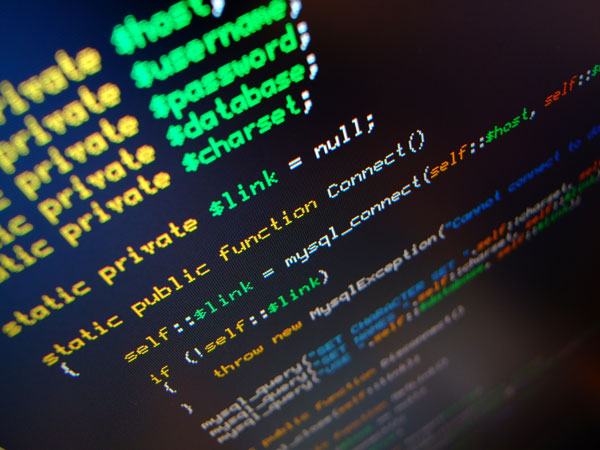
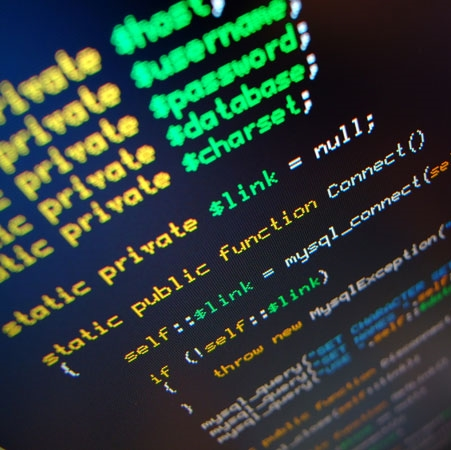
Make pictures square, fix minor HTML issues

diff --git a/opptak/index.html b/opptak/index.html
@@ -1,13 +1,12 @@
 <!DOCTYPE html>
-<!-- saved from url=(0031)http://hackerspace.idi.ntnu.no/ -->
 <html lang="nb"><head><meta http-equiv="Content-Type" content="text/html; charset=UTF-8">
 <title>Hackerspace NTNU</title>
 <meta charset="UTF-8">
 <meta http-equiv="X-UA-Compatible" content="IE=edge">
 <meta name="viewport" content="width=device-width, initial-scale=1">
 <link rel="stylesheet" href="http://maxcdn.bootstrapcdn.com/bootswatch/3.3.2/yeti/bootstrap.min.css">
-<link rel="stylesheet" href="http://hackerspace.idi.ntnu.no/dist/css/carousel.css">
-<link rel="stylesheet" href="http://hackerspace.idi.ntnu.no/dist/css/custom.css">
+<link rel="stylesheet" href="/dist/css/carousel.css">
+<link rel="stylesheet" href="/dist/css/custom.css">
 <style type="text/css"></style></head>
 <body>
     <header style="margin-bottom: 2em;">
@@ -24,24 +23,26 @@
         </div>
 
     </header>
-    <div class="row">
-        <div class="col-lg-12 text-center">
-        <a href="opptak_form/index.html">
-            <button type="button" class="btn-primary btn-lg" aria-label="Right Align">
-              <span class="" aria-hidden="true"></span> Søk Hackerspace
-                </button>
-          </button>
-        </a>
-      </div  </div>
 
-  <div class="container marketing">       
+    <div class="text-center">
+        <a href="opptak_form/index.html">
+            <button type="button" class="btn btn-primary btn-lg" aria-label="Right Align">
+              <span class="" aria-hidden="true"></span> Søk Hackerspace
+          </button>
+      </button>
+  </a>
+</div >
+
+<div class="container marketing">       
 
     <hr class="featurette-divider">
 
     <div class="container marketing">
         <div class="row">
             <div class="col-lg-3 text-center">
-                <img src="./index_files/img/mega.jpg" class="img-circle">
+                <div class="img-circle">
+                    <img src="./index_files/img/mega.jpg">
+                </div>
 
                 <h2>
                     PR
@@ -51,43 +52,51 @@
                     PR har ansvar for å få ut så mye informasjon om Hackerspace som mulig. Gruppa lager blant annet plakater, designer nettsiden, tar bilder og holder verden oppdatert på de siste hendelsene ved Hackerspace. I tillegg er det mye rom for å definere PR gruppa og komme opp med både systemer og sprell.
 
                 </p>
-            </div><div class="col-lg-3 text-center">
-            <img src="./index_files/img/dev.jpg" class="img-circle">
+            </div>
+
+            <div class="col-lg-3 text-center">
+                <div class="img-circle">
+                    <img src="./index_files/img/dev.jpg">
+                </div>
+
+                <h2>
+                    /dev
+                </h2>
+
+                <p>
+                    /dev er ansvarlige for alle backend-løsninger som finnes
+                    på Hackerspace, YO-knappen, dør-APIet og nettsidene våre for å nevne noen. 
+                    Gruppas oppgaver ligger i hovedsak i å bygge slike systemer, samt å drifte løsningene som allerede er på plass. Hvis man ønsker å få et godt forsprang innenfor web-
+                    og restAPI-løsninger så er dette gruppa for deg. 
+                </p>
+            </div>
+            <div class="col-lg-3 text-center">
+                <div class="img-circle">
+                    <img src="./index_files/img/pr1.jpg">
+                </div>
+
+                <h2>
+                    Laboperatørene
+                </h2>
+
+                <p>
+                   Laboperatørene er ansvarlige for kurs og events samt Hackerspace-rommet og alt utstyret. Her får du mulighet til å vise frem besøkende hvor kult Hackerspace er, bestemme hva slags utstyr det skal kjøpes inn og ta events fra ide-stadiet til gjennomføring. Som med de andre gruppene er det her mye rom for å ha stor påvirkning i hva som skal gjøres og hvordan Hackerspace vil utvikle seg. 
+               </p>
+           </div>
+           <div class="col-lg-3 text-center">
+            <div class="img-circle">
+                <img src="./index_files/img/s1pro.jpg">
+            </div>
 
             <h2>
-                /dev
+                Prosjektgruppa
             </h2>
 
             <p>
-                /dev er ansvarlige for alle backend-løsninger som finnes
-                på Hackerspace, YO-knappen, dør-APIet og nettsidene våre for å nevne noen. 
-                Gruppas oppgaver ligger i hovedsak i å bygge slike systemer, samt å drifte løsningene som allerede er på plass. Hvis man ønsker å få et godt forsprang innenfor web-
-                og restAPI-løsninger så er dette gruppa for deg. 
+                Har du lyst til å lage en drone, 3D-printe en umulig mekanisme, eller bare skape noe spennende? Da er dette gruppa for deg! Prosjektgruppa kjører nye prosjekter hvert semester og har noe for enhver smak. Her kan du enten bli med på andre sine prosjekter, eller lage ditt eget team med eget prosjekt. Prosjektene vil vises frem på en stor demo-dag.
             </p>
         </div>
-        <div class="col-lg-3 text-center">
-            <img src="./index_files/img/pr1.jpg" class="img-circle">
-
-            <h2>
-                Laboperatørene
-            </h2>
-
-            <p>
-               Laboperatørene er ansvarlige for kurs og events samt Hackerspace-rommet og alt utstyret. Her får du mulighet til å vise frem besøkende hvor kult Hackerspace er, bestemme hva slags utstyr det skal kjøpes inn og ta events fra ide-stadiet til gjennomføring. Som med de andre gruppene er det her mye rom for å ha stor påvirkning i hva som skal gjøres og hvordan Hackerspace vil utvikle seg. 
-           </p>
-       </div>
-       <div class="col-lg-3 text-center">
-        <img src="./index_files/img/s1pro.jpg" class="img-circle">
-
-        <h2>
-            Prosjektgruppa
-        </h2>
-
-        <p>
-            Har du lyst til å lage en drone, 3D-printe en umulig mekanisme, eller bare skape noe spennende? Da er dette gruppa for deg! Prosjektgruppa kjører nye prosjekter hvert semester og har noe for enhver smak. Her kan du enten bli med på andre sine prosjekter, eller lage ditt eget team med eget prosjekt. Prosjektene vil vises frem på en stor demo-dag.
-        </p>
     </div>
-</div>
 </div>
 </div>
 

diff --git a/dist/css/custom.css b/dist/css/custom.css
@@ -40,9 +40,22 @@ form#mail-signup .input-area input.form-control {
     width: 100%;
 }
 
-.marketing .img-circle {
+.img-circle {
     width: 140px;
     height: 140px;
+    overflow: hidden;
+    position: relative;
+    margin: 0 auto;
+}
+
+.img-circle img {
+    position: absolute;
+    top: -9999px;
+    left: -9999px;
+    right: -9999px;
+    bottom: -9999px;
+    margin: auto;
+    width: 100%;
 }
 
 #gallery h2 {
